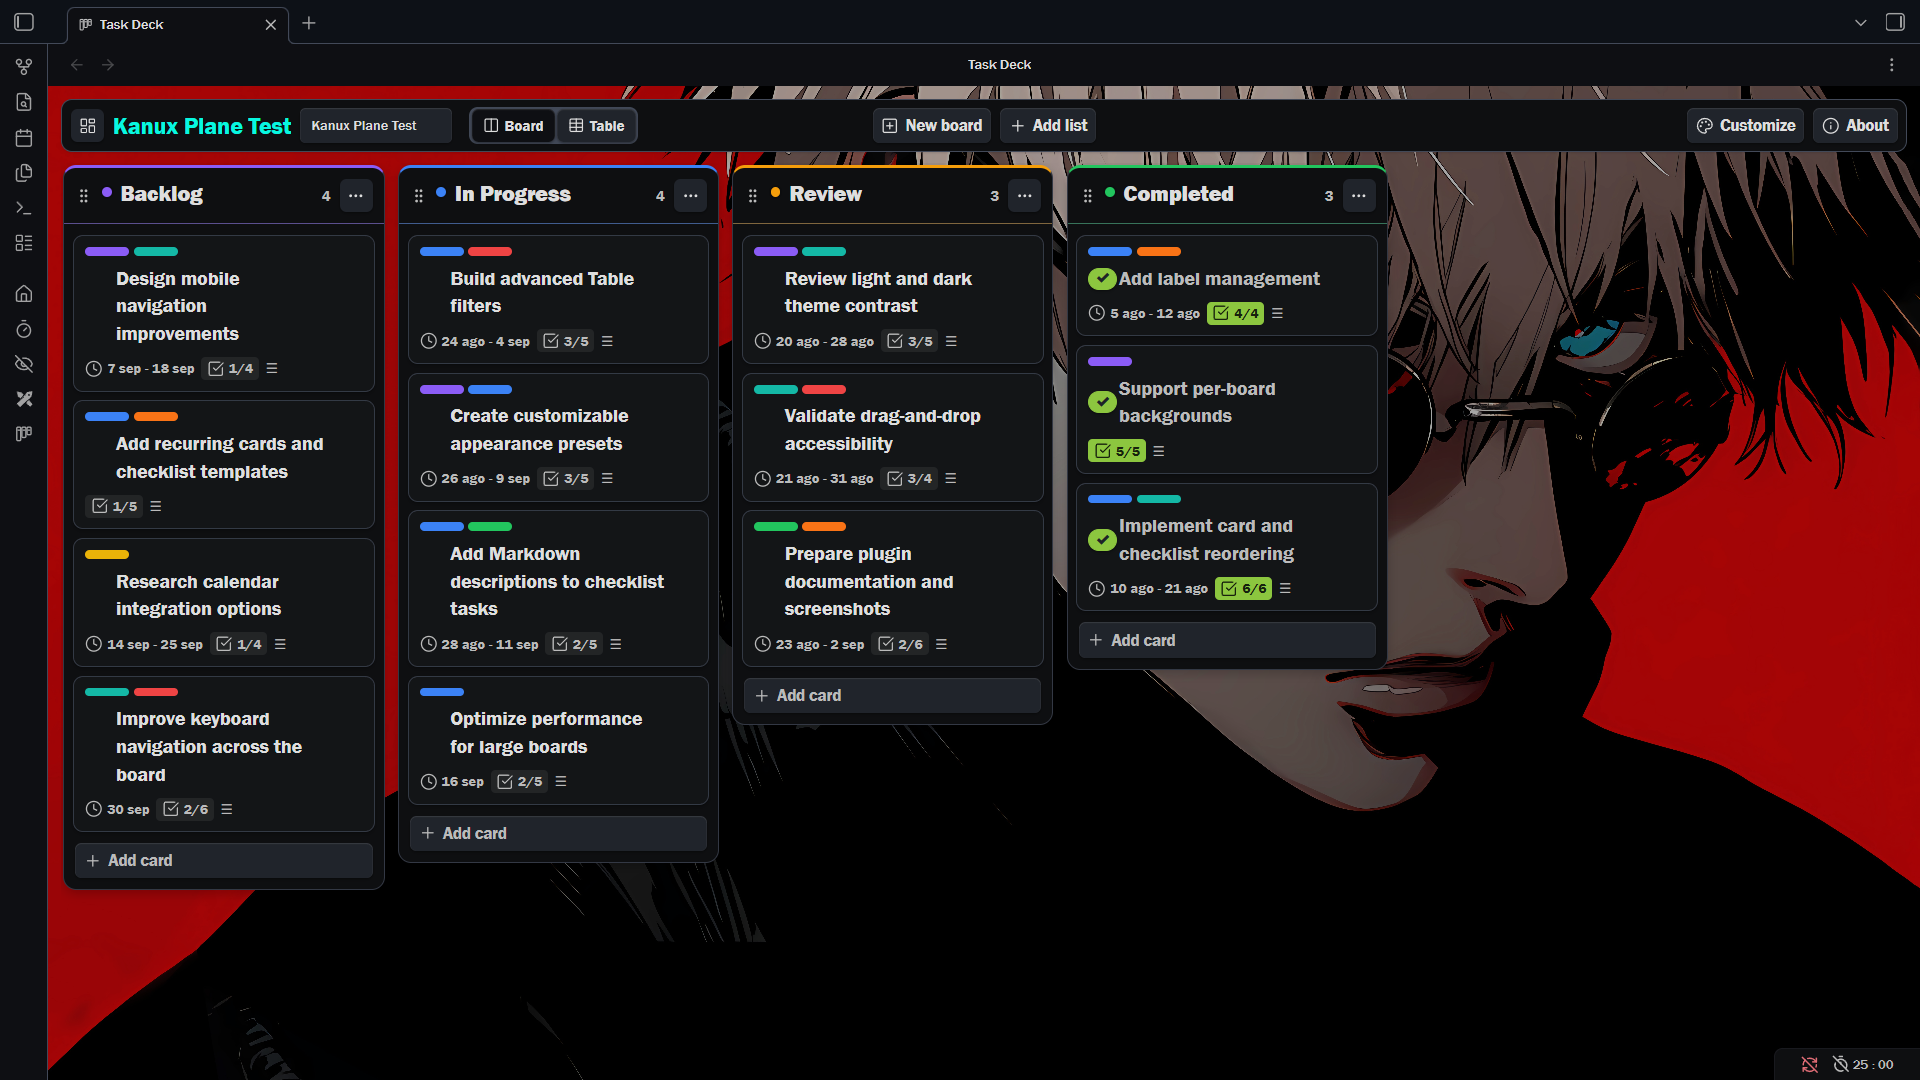
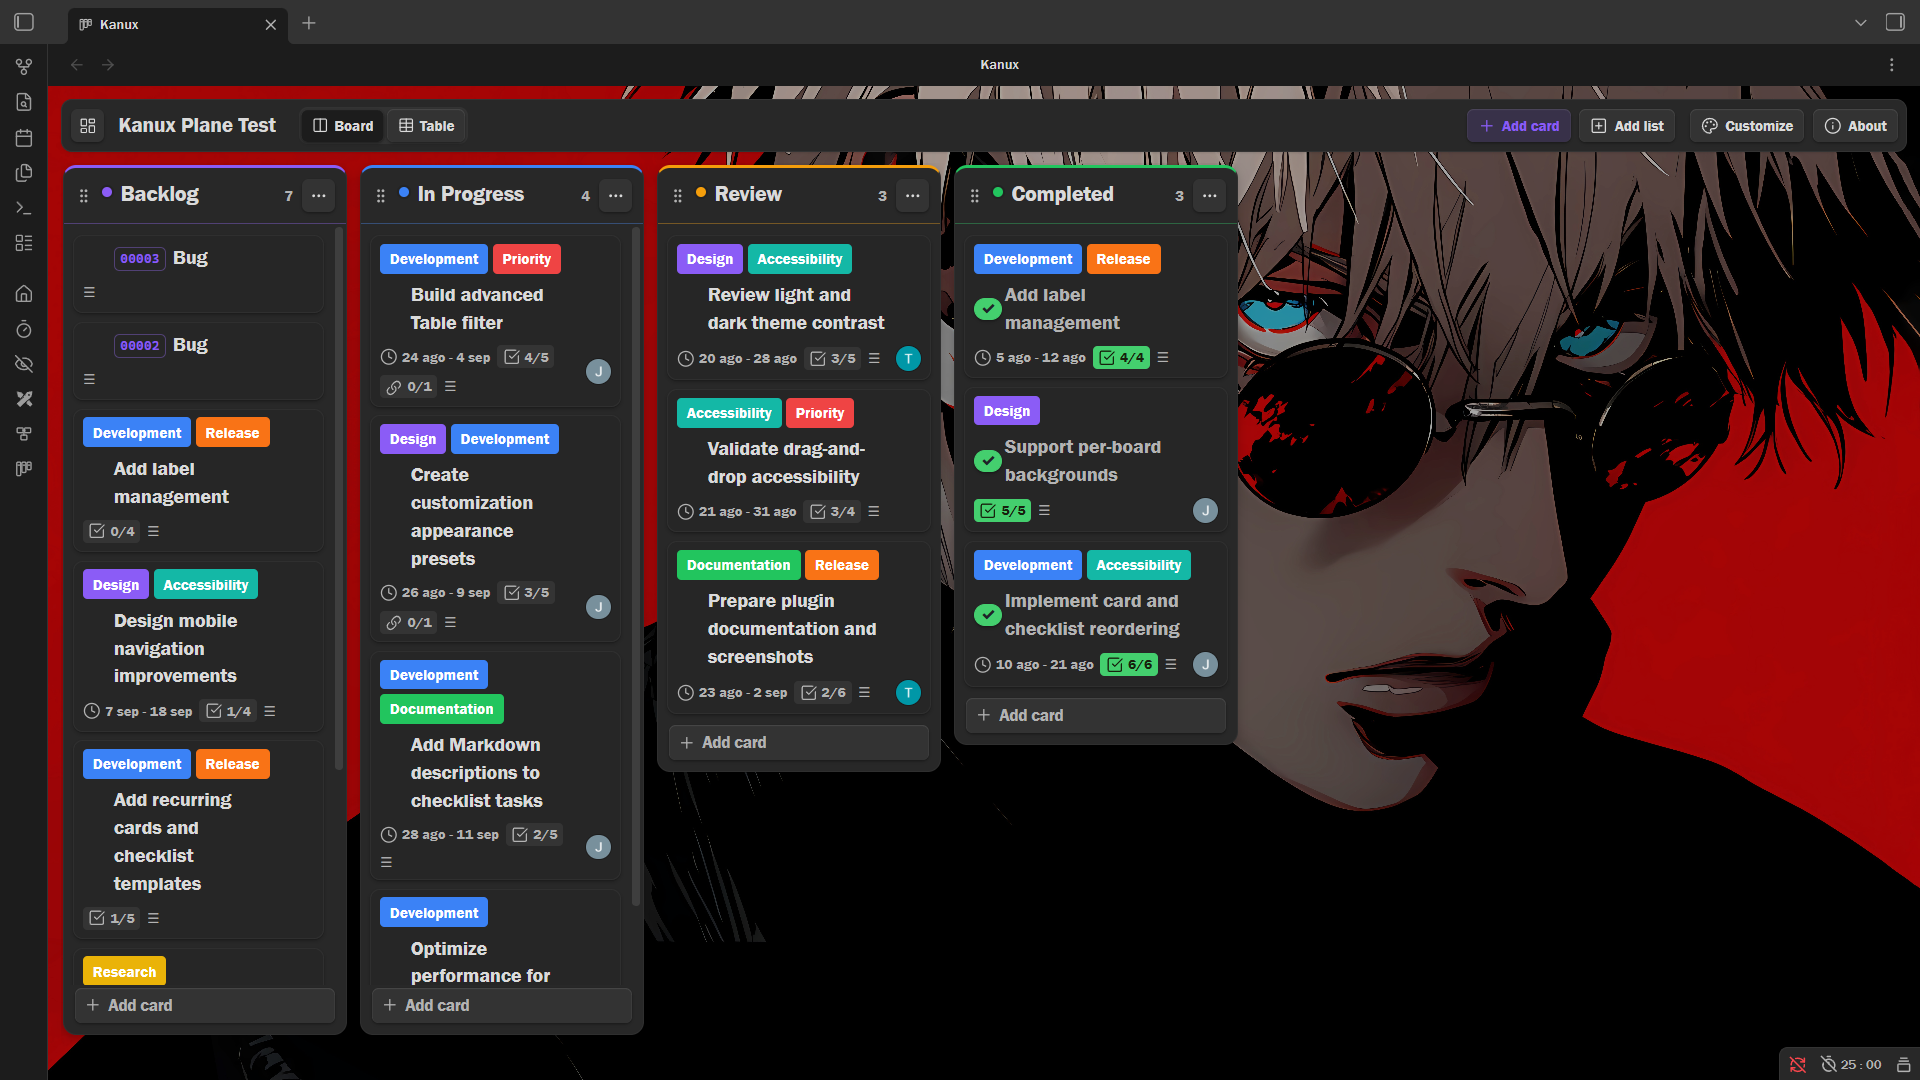
Document 0.4.0 features
Updates the README and associated images to provide comprehensive documentation for the features introduced in version 0.4.0.

This includes new sections and visuals for:
- The embedded Obsidian editor for card descriptions.
- Checklist-specific descriptions.
- Card templates with incremental numbering and unique identifiers.
- Card and checklist dependencies with blocking levels.
- Enhanced board customization, including a live preview for changes.

diff --git a/README.md b/README.md
@@ -25,6 +25,10 @@ Open a card to manage its labels, dates, Markdown description, checklists, and p
 
 ![Complete Kanux card editor](<docs/images/View of the card.png>)
 
+Descriptions are written in an embedded Obsidian editor with Live Preview, a formatting toolbar, and note and tag autocompletion. On wide screens it opens as a side panel beside the card, and everything saves as you type.
+
+![Card description open in the embedded Markdown editor side panel](<docs/images/Native Markdown Editor.png>)
+
 <details>
 <summary>More card details</summary>
 
@@ -32,15 +36,37 @@ Open a card to manage its labels, dates, Markdown description, checklists, and p
 
 ![Start and due dates displayed on a card](<docs/images/View of the date on a card.png>)
 
-#### Labels
+#### Checklist descriptions
 
-![Colored labels displayed on cards](<docs/images/View of the tags on the cards.png>)
+Each checklist can carry its own line of context above its items.
+
+![Description written for a single checklist](<docs/images/Description for a checklist.png>)
 
 #### Markdown linked to a checklist task
 
 ![Expanded Markdown document linked to a checklist task](<docs/images/View of the document linked to a check-list-item.png>)
 
 </details>
+
+### Card templates and running codes
+
+Save any card as a template, or build one from scratch, and start a new card from it in any list. Templates live as ordinary notes inside the board folder and never appear on the board itself.
+
+![Add card menu listing the board's card templates](<docs/images/Templates for the cards.png>)
+
+A template can also number the cards it makes: pick a prefix, the separator between prefix and number, the next number, and how many digits it pads to. The code is stored on the card instead of in its title, so renaming a card keeps its identifier and Table search still finds it.
+
+![Template editor with incremental numbering enabled](<docs/images/Modal for creating new templates.png>)
+
+### Dependencies and blocking
+
+A card, and each of its checklists, can depend on other cards. Every dependency picks how hard an unmet one gates the work: **linked** for information only, **warning** to ask before continuing, or **blocking** to stop the action outright.
+
+![Card sidebar showing blocking, warning, and linked dependencies](<docs/images/Card modality with dependencies.png>)
+
+Card dependencies gate moving the card to another list, while checklist dependencies gate ticking that checklist's items. The strongest unmet level wins, and a dependency whose card was deleted never blocks.
+
+![Dependencies attached to a single checklist](<docs/images/Checklists with dependencies.png>)
 
 ### Filters and multiple boards
 
@@ -59,11 +85,9 @@ Use searchable label filters on large boards and move between independent boards
 
 ### Per-board customization
 
-Customize each board independently without changing the active Obsidian theme. Backgrounds support solid colors, gradients, and local images with adjustable fitting and darkening.
+Customize each board independently without changing the active Obsidian theme. Backgrounds support solid colors, gradients, and local images with adjustable fitting and darkening, and a preview strip at the top shows what the board will get — including how card codes are drawn — as you change it.
 
-![Kanux per-board customization window](<docs/images/Customization window.png>)
-
-![Customized Kanux appearance without modifying the Obsidian theme](<docs/images/Customization without touching the theme.png>)
+![Kanux per-board customization window with its live preview strip](<docs/images/View to customize your Kanux dashboard..png>)
 
 <details>
 <summary>Background customization examples</summary>
@@ -87,8 +111,6 @@ Sync Deck adds shared vaults, member assignment, card locks, and live presence w
 
 ![Assigning specific checklist tasks to team members](<docs/images/Assign specific tasks to members of your team.png>)
 
-![Card displaying an assigned member](<docs/images/View with a member assigned to a card.png>)
-
 ![Multiple people collaborating through Sync Deck](<docs/images/Ability to work with multiple people tacks to Sync Deck.png>)
 
 </details>
@@ -102,8 +124,9 @@ Sync Deck adds shared vaults, member assignment, card locks, and live presence w
 - **Complete card management:** Create, edit, complete, move, export, or delete cards with titles, dates, labels, members, descriptions, images, and progress information.
 - **Labels and dates:** Use reusable colored labels, flexible display modes, start dates, due dates, ranges, and overdue indicators.
 - **Rich Markdown descriptions:** Write and render formatted descriptions with links, lists, quotes, code, Obsidian note references, and collapsible long content. Typing is saved as you go, so a closed modal never costs you a paragraph.
+- **Embedded Obsidian editor:** Write descriptions and checklist notes in a real Live Preview editor, with a formatting toolbar for headings, emphasis, lists, quotes, links, vault links, dividers and inline code, plus note and tag autocompletion. On wide screens it opens as a side panel beside the card, and `Mod+S` or `Esc` closes the field instead of escaping to Obsidian.
 - **Images and attachments:** Add, paste, resize, arrange, reorder, copy, and manage images while keeping attachments organized inside the vault.
-- **Checklists and tasks:** Build multiple colored checklists, reorder tasks or whole checklists with drag and drop — every checklist collapses to its header while one is on the move — track independent progress, assign members, and associate individual tasks with their own Markdown notes. Completed tasks fold into a per-checklist **Completed** section you can show or hide, and a whole checklist can be folded down to its header and progress bar; the fold travels with the note, so it stays folded the next time the card opens.
+- **Checklists and tasks:** Build multiple colored checklists, reorder tasks or whole checklists with drag and drop — every checklist collapses to its header while one is on the move — track independent progress, assign members, and associate individual tasks with their own Markdown notes. Every checklist can carry its own description above its items. Completed tasks fold into a per-checklist **Completed** section you can show or hide, and a whole checklist can be folded down to its header and progress bar; the fold travels with the note, so it stays folded the next time the card opens.
 - **Card templates:** Save any card as a template — title, labels, members, description and colored checklists — and start new cards from it in one click, with the caret waiting in the first blank. Give a template a running code (BUG-014) and every card it makes carries its own identifier, kept through renames and searchable. Review, edit and delete them from one place.
 - **Dependencies and blocking:** Make a card — or a single checklist — depend on other cards, and pick per dependency whether an unfinished one blocks nothing, asks for confirmation, or blocks the action completely.
 - **Per-board appearance:** Customize backgrounds, colors, spacing, typography, density, borders, shadows, animations, labels, image fitting and the look of card codes, with a live preview strip that shows the result as you change it; save presets or copy an appearance from another board.
